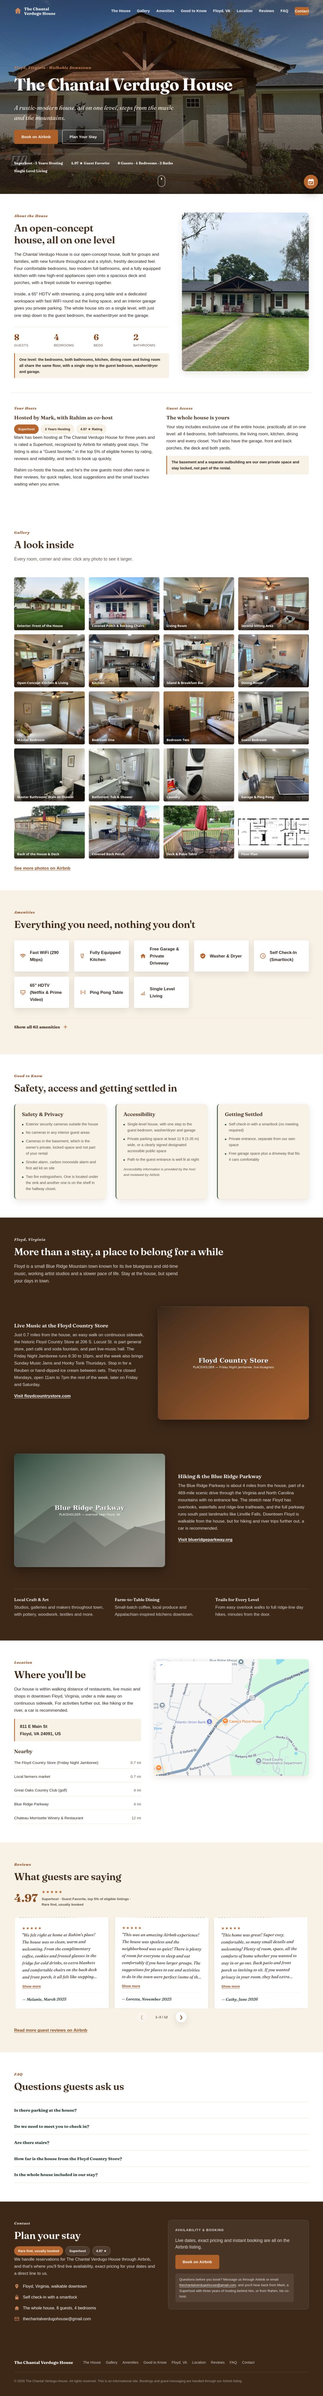
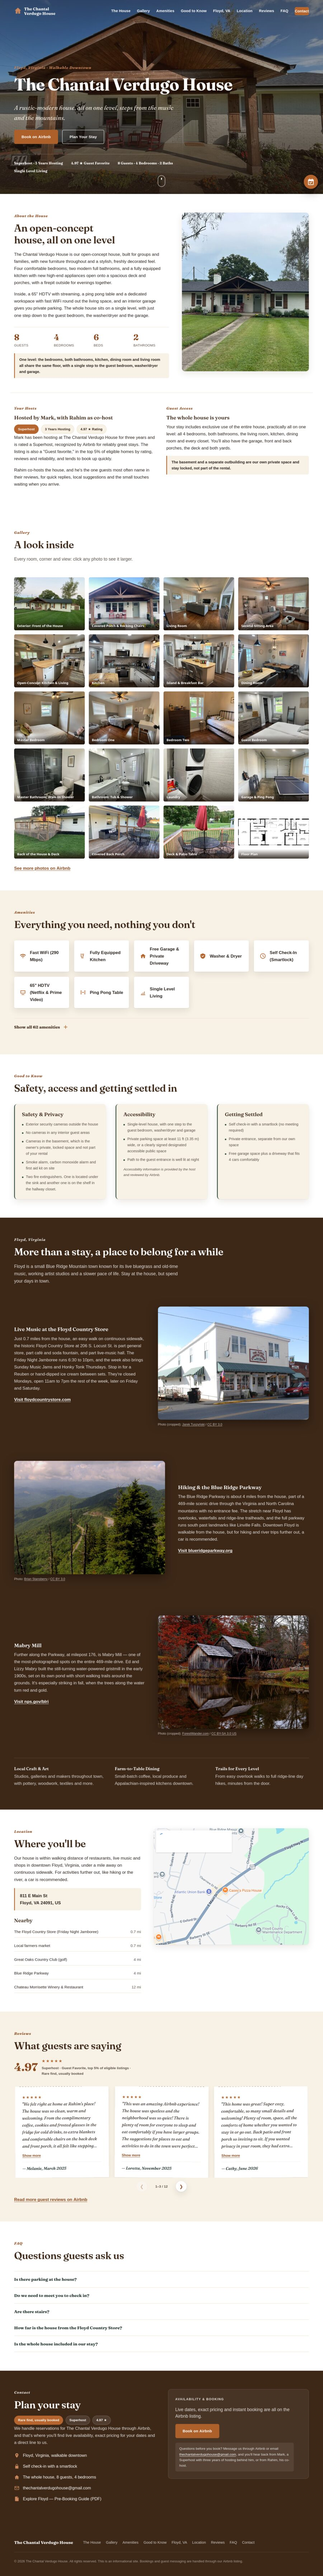
img(chantal): replace Floyd placeholders with real, licensed photos
Swaps the two generated stand-ins (Country Store, Blue Ridge Parkway) for
real photography from Wikimedia Commons, all Creative Commons, all
credited on-page (author + license, both linked) next to each photo —
comment-only attribution isn't enough for CC compliance, it has to be
visible. Adds a third block for Mabry Mill, placed right after Blue Ridge
Parkway since it's a named landmark on that same route; its source is
CC BY-SA (ShareAlike), noted inline since the cropped derivative here
inherits that license too, unlike the other two (plain CC BY).

No photo for the firepit — it stays amenity-only (already listed in the
JSON-LD, the About text and the amenities grid, nothing to add there).

With this, every image slot on the landing is real. Updates the stale
"Scaffold" comment accordingly: the only thing left before "index,
follow" is registering www.chantalverdugohouse.com, which canonical/OG/
JSON-LD/sitemap already point at. Removes photos-raw/, whose own README
called for its deletion once photography was complete.

diff --git a/projects/chantal_verdugo_house/index.html b/projects/chantal_verdugo_house/index.html
@@ -8,9 +8,14 @@
     <meta
       name="description"
       content="Our four-bedroom house in downtown Floyd, Virginia sleeps 8 on a single level. Walk to the Country Store, and the Blue Ridge Parkway is 4 miles away." />
-    <!-- Scaffold: listing content and the Airbnb booking link are real, but every photo
-         in assets/img/ is still a generated stand-in. Remove noindex once the real
-         photography is in (see README.md). -->
+    <!-- Photography and copy are both real now — nothing left in assets/img/ is a
+         placeholder. What's still holding back "index, follow" is the domain itself:
+         canonical/OG/JSON-LD/sitemap.xml below already point at
+         www.chantalverdugohouse.com, but it isn't registered yet, so there's no live
+         URL for that metadata to describe. Once it's bought and pointed somewhere —
+         either this same build via a GitHub Pages custom domain, or a separate host
+         with this copy staying a noindex preview like projects/inmica/ — flip this
+         to "index, follow" and refresh the sitemap's lastmod. -->
     <meta name="robots" content="noindex, nofollow" />
     <link rel="canonical" href="https://www.chantalverdugohouse.com/" />
 
@@ -1049,13 +1054,25 @@
               </p>
             </div>
             <figure class="floyd__media">
-              <img
-                src="assets/img/floyd-country-store.jpg"
-                alt="Placeholder photo of the Floyd Country Store, to be replaced with a real photo"
-                width="1600"
-                height="1200"
-                loading="lazy"
-                decoding="async" />
+              <picture>
+                <source srcset="assets/img/floyd-country-store.webp" type="image/webp" />
+                <img
+                  src="assets/img/floyd-country-store.jpg"
+                  alt="The Floyd Country Store's white two-story storefront on Locust Street, with green-striped awnings and a banjo mounted above the sign."
+                  width="1600"
+                  height="1200"
+                  loading="lazy"
+                  decoding="async" />
+              </picture>
+              <!-- CC BY 3.0, cropped to 4:3 from the original — no ShareAlike clause on
+                   this license, so the crop doesn't need to be re-released under it. -->
+              <figcaption class="floyd__credit">
+                Photo (cropped):
+                <a href="https://commons.wikimedia.org/w/index.php?curid=10784353" target="_blank" rel="noopener">Jarek Tuszyński</a>
+                /
+                <a href="https://creativecommons.org/licenses/by/3.0" target="_blank" rel="noopener">CC BY 3.0</a>
+                <span class="sr-only">, both links open in a new tab</span>
+              </figcaption>
             </figure>
           </div>
 
@@ -1077,13 +1094,67 @@
               </p>
             </div>
             <figure class="floyd__media">
-              <img
-                src="assets/img/floyd-blue-ridge-parkway.jpg"
-                alt="Placeholder photo of a Blue Ridge Parkway overlook near Floyd, Virginia"
-                width="1600"
-                height="1200"
-                loading="lazy"
-                decoding="async" />
+              <picture>
+                <source srcset="assets/img/floyd-blue-ridge-parkway.webp" type="image/webp" />
+                <img
+                  src="assets/img/floyd-blue-ridge-parkway.jpg"
+                  alt="An overlook on the Blue Ridge Parkway, with the road curving away through forested mountains under a cloudy sky."
+                  width="1600"
+                  height="1200"
+                  loading="lazy"
+                  decoding="async" />
+              </picture>
+              <!-- CC BY 3.0, resized only (not cropped) from the original. -->
+              <figcaption class="floyd__credit">
+                Photo:
+                <a href="https://commons.wikimedia.org/w/index.php?curid=6287028" target="_blank" rel="noopener">Brian Stansberry</a>
+                /
+                <a href="https://creativecommons.org/licenses/by/3.0" target="_blank" rel="noopener">CC BY 3.0</a>
+                <span class="sr-only">, both links open in a new tab</span>
+              </figcaption>
+            </figure>
+          </div>
+
+          <div class="floyd__block section__inner reveal">
+            <div class="floyd__text">
+              <h3>Mabry Mill</h3>
+              <p>
+                Further along the Parkway, at milepost 176, is Mabry Mill — one of the
+                most-photographed spots on the entire 469-mile drive. Ed and Lizzy Mabry
+                built the still-turning water-powered gristmill in the early 1900s, set
+                on its own pond with short walking trails around the grounds. It's
+                especially striking in fall, when the trees along the water turn red
+                and gold.
+              </p>
+              <p class="floyd__link">
+                <a href="https://www.nps.gov/blri/planyourvisit/mabry-mill-mp-176.htm" target="_blank" rel="noopener">
+                  Visit nps.gov/blri <span class="sr-only">(opens in a new tab)</span>
+                </a>
+              </p>
+            </div>
+            <figure class="floyd__media">
+              <picture>
+                <source srcset="assets/img/floyd-mabry-mill.webp" type="image/webp" />
+                <img
+                  src="assets/img/floyd-mabry-mill.jpg"
+                  alt="Mabry Mill's water wheel and wooden gristmill reflected in its still pond, surrounded by red and orange fall foliage."
+                  width="1600"
+                  height="1200"
+                  loading="lazy"
+                  decoding="async" />
+              </picture>
+              <!-- CC BY-SA 3.0 US — ShareAlike, unlike the other two Floyd photos.
+                   Cropped to 4:3 from the original, so this specific derivative image
+                   (floyd-mabry-mill.jpg/.webp) is itself offered under the same
+                   CC BY-SA 3.0 US terms as the source, per the license's share-alike
+                   clause. Doesn't extend to the rest of the site. -->
+              <figcaption class="floyd__credit">
+                Photo (cropped):
+                <a href="https://commons.wikimedia.org/w/index.php?curid=21874135" target="_blank" rel="noopener">ForestWander.com</a>
+                /
+                <a href="https://creativecommons.org/licenses/by-sa/3.0/us/deed.en" target="_blank" rel="noopener">CC BY-SA 3.0 US</a>
+                <span class="sr-only">, both links open in a new tab</span>
+              </figcaption>
             </figure>
           </div>
         </div>

diff --git a/projects/chantal_verdugo_house/css/styles.css b/projects/chantal_verdugo_house/css/styles.css
@@ -1087,6 +1087,29 @@ address {
   width: 100%;
 }
 
+/* Credit line for the three Wikimedia Commons photos in this section (Country
+   Store, Blue Ridge Parkway, Mabry Mill) — all Creative Commons, attribution
+   required. Sits on the plain --wood-deep section background, not over the photo,
+   so a flat opacity is safe (5.3:1 minimum at this alpha, checked against the
+   palette-contrast note near the top of this file) without the "text over a
+   variable photo" trap .hero__trust hit. */
+.floyd__credit {
+  margin: 0.5rem 0 0;
+  font-size: 0.78rem;
+  color: rgba(255, 255, 255, 0.7);
+}
+
+.floyd__credit a {
+  color: inherit;
+  text-decoration: underline;
+  text-underline-offset: 0.15em;
+}
+
+.floyd__credit a:hover,
+.floyd__credit a:focus-visible {
+  color: var(--copper-light);
+}
+
 @media (max-width: 720px) {
   .floyd__block,
   .floyd__block--reverse {
